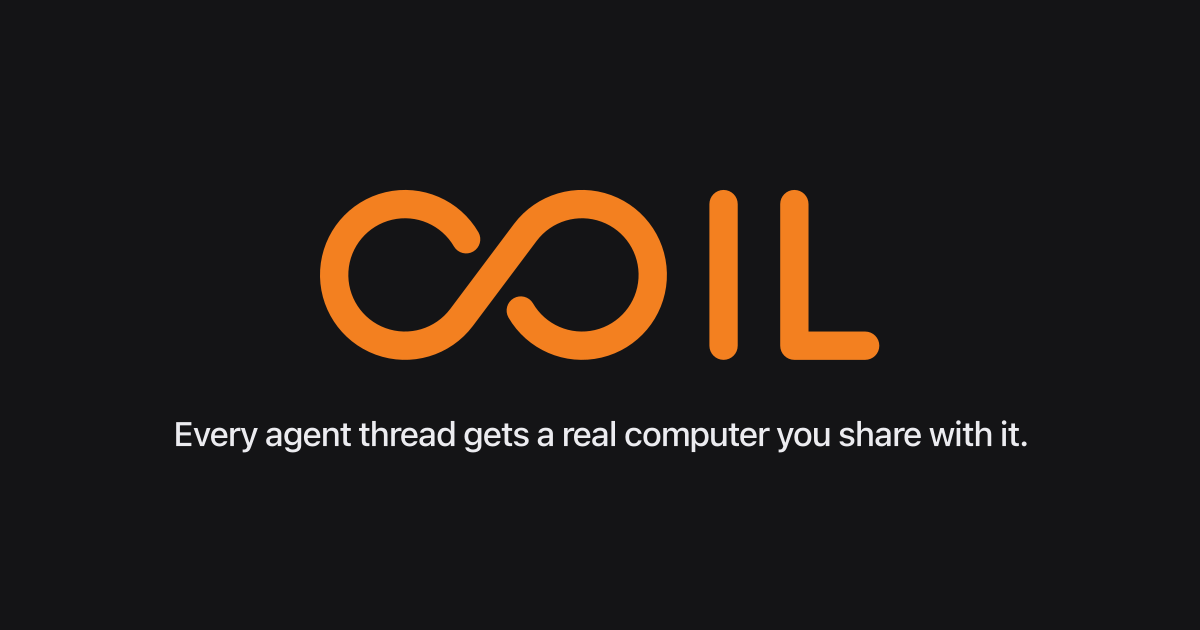
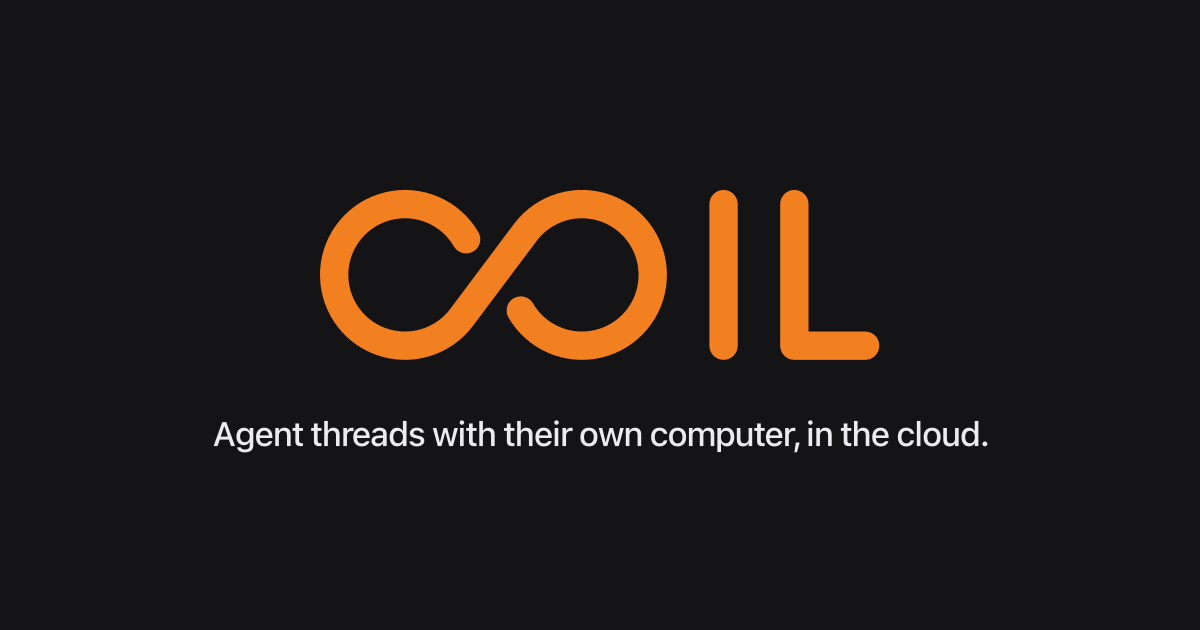
Social card says what coil is; og:image and twitter:image are absolute on the serving host; receipt of the browser restoring after a restart

Changed region(s): [[0.1233, 0.6635, 0.8633, 0.7238]]

diff --git a/test/ui.test.ts b/test/ui.test.ts
@@ -1,5 +1,6 @@
 import { readFileSync } from 'node:fs';
 import { describe, expect, it } from 'vitest';
+import { page } from '../src/ui/index';
 import { sharedPage } from '../src/ui/shared';
 import { STYLE } from '../src/ui/style';
 import { serviceWorker } from '../src/ui/sw';
@@ -82,4 +83,24 @@ it('the page shell uses the brand favicon and social card', () => {
 
   expect(html).toContain('/icons/favicon.svg');
   expect(html).toContain('/brand/coil-social.png');
+});
+
+describe('link previews', () => {
+  it('points og:image and twitter:image at an absolute URL on the serving host', () => {
+    const html = page('https://coil.example.com');
+
+    expect(html).toContain(
+      '<meta property="og:image" content="https://coil.example.com/brand/coil-social.png">',
+    );
+    expect(html).toContain(
+      '<meta name="twitter:image" content="https://coil.example.com/brand/coil-social.png">',
+    );
+  });
+
+  it('ships the social card the page points at', () => {
+    const png = readFileSync('public/brand/coil-social.png');
+
+    expect(png.readUInt32BE(16)).toBe(1200);
+    expect(png.readUInt32BE(20)).toBe(630);
+  });
 });

diff --git a/src/ui/index.ts b/src/ui/index.ts
@@ -2,7 +2,7 @@ import { APP_ENTRY } from './app.generated';
 import { FONTS, STYLE } from './style';
 import { TERM_VERSION } from './term.generated';
 
-export const page = () => `<!doctype html>
+export const page = (origin = '') => `<!doctype html>
 <html lang="en">
 <head>
 <meta charset="utf-8">
@@ -20,7 +20,8 @@ export const page = () => `<!doctype html>
 <link rel="icon" href="/icons/favicon-16.png" sizes="16x16" type="image/png">
 <meta property="og:title" content="coil">
 <meta property="og:description" content="Agent threads with their own computer: terminals, a browser, and a disk you can fork.">
-<meta property="og:image" content="/brand/coil-social.png">
+<meta property="og:image" content="${origin}/brand/coil-social.png">
+<meta name="twitter:image" content="${origin}/brand/coil-social.png">
 <meta property="og:image:width" content="1200">
 <meta property="og:image:height" content="630">
 <meta name="twitter:card" content="summary_large_image">

diff --git a/src/index.ts b/src/index.ts
@@ -182,7 +182,7 @@ const route = async (request: Request, env: Env, caller: Owner): Promise<Respons
   }
 
   if (PAGE.test(pathname) && request.method === 'GET')
-    return new Response(page(), {
+    return new Response(page(new URL(request.url).origin), {
       headers: { 'content-type': 'text/html; charset=utf-8', 'cache-control': 'no-cache' },
     });
 

diff --git a/docs/brand/build.py b/docs/brand/build.py
@@ -162,7 +162,7 @@ def social():
         f'<g fill="{ORANGE}" transform="translate({num(x)} {num(y)}) scale({num(scale)})">{paths}</g>'
         f'<text x="{w // 2}" y="{num(y + HEIGHT * scale + 86)}" text-anchor="middle" fill="#ECECF0" '
         f'font-family="Google Sans Flex, Google Sans, system-ui, sans-serif" font-size="34" font-weight="500">'
-        f'Every agent thread gets a real computer you share with it.</text>'
+        f'Agent threads with their own computer, in the cloud.</text>'
     )
     return svg(f"0 0 {w} {h}", body)
 
